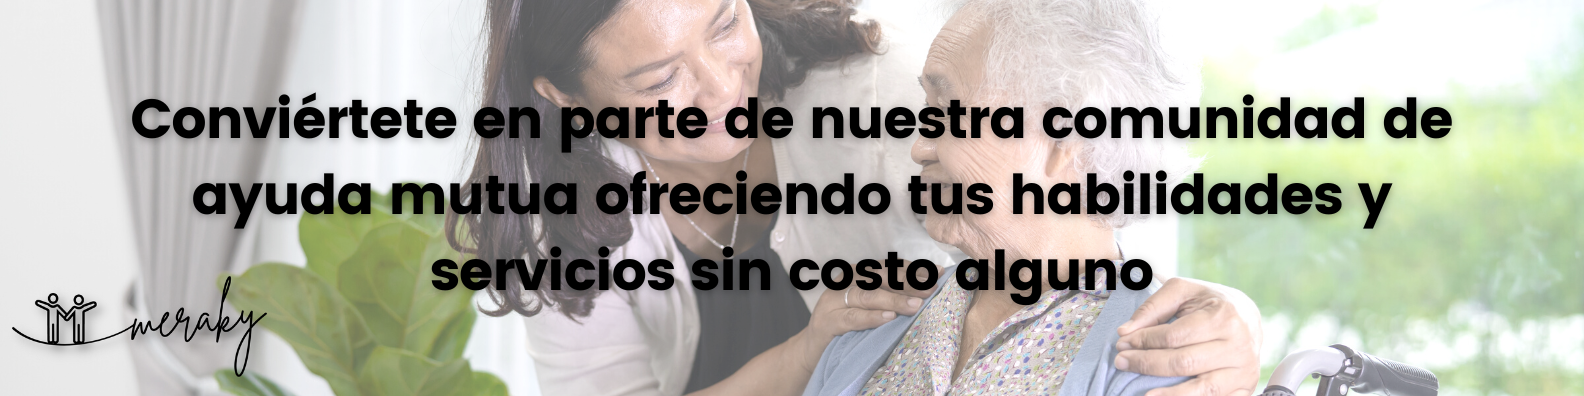
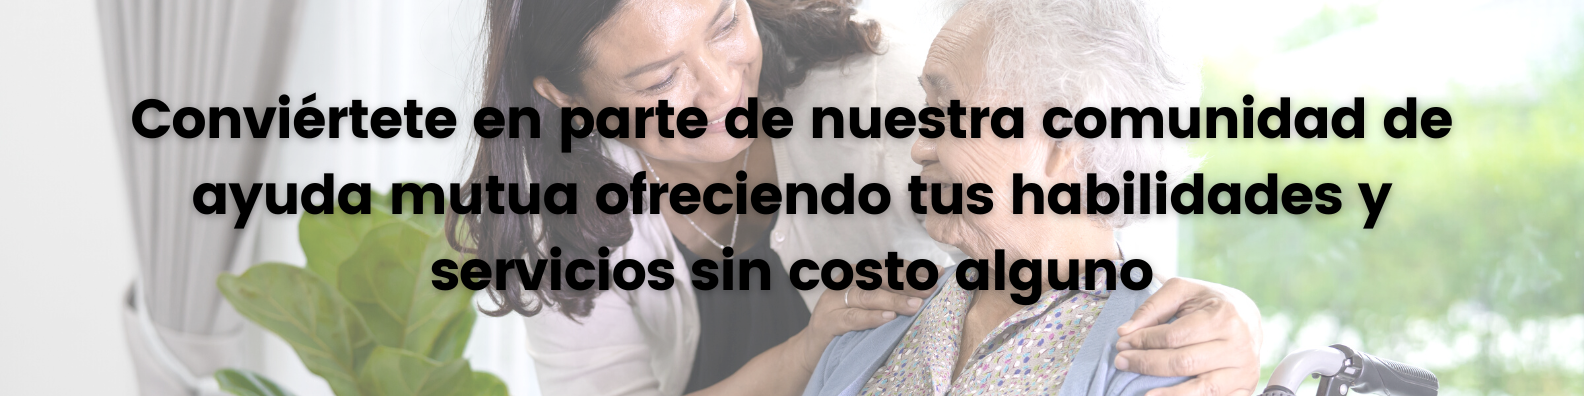
Modify Home

Changed region(s): [[0.0, 0.7273, 0.1856, 0.9091], [0.1237, 0.697, 0.1547, 0.7576]]

diff --git a/src/router/index.jsx b/src/router/index.jsx
@@ -8,6 +8,7 @@ import Post from '../pages/Post';
 import NotFound from "../pages/NotFound";
 import EditService from "../pages/EditService";
 import Navbar from "../components/Navbar";
+import Cards from "../components/Card";
 
 
 export const router = createBrowserRouter([
@@ -21,7 +22,7 @@ export const router = createBrowserRouter([
                 children: [
                     {
                         index: true,
-                        element: <><Navbar /> <Home /></>, 
+                        element:<Home />, 
                     },
                     {
                         path: '/form',

diff --git a/src/pages/Home.jsx b/src/pages/Home.jsx
@@ -1,14 +1,21 @@
 import "./Home.css"
 import Slide from '../components/Slide';
-
+import Card from '../components/Card';
 const Home = () => {
     return (
 
-
+<>
                 <Slide/>
+                <h1 className="title">Anuncios destacados</h1>
+            <div className="anuncios">
+                <Card/> <Card/> <Card/>
+            </div>
+            <div className="anuncios">
+                <Card/> <Card/> <Card/>
+            </div>
 
 
-
+                </>
 
 
     )

diff --git a/src/layout/LayoutPublic.jsx b/src/layout/LayoutPublic.jsx
@@ -16,7 +16,7 @@ const LayoutPublic = () => {
     return (
         <>
         <Navbar/>
-        <Slide />
+        {/* <Slide /> */}
         <main className="container">
            {navigation.state === "loading" && (
                <div className="alert alert-info my-S">Loading...</div>

diff --git a/src/components/Navbar.css b/src/components/Navbar.css
@@ -4,14 +4,14 @@
     justify-content: space-around;
     
     background-color: white;
-    height: 20vh;
+    height: 18vh;
     width: 100%;
        
   }
 
   .logo{
-    width: 18vw;
-    height: 18vh;
+    width: 20vw;
+    height: 20vh;
    
       
   }

diff --git a/src/components/Navbar.jsx b/src/components/Navbar.jsx
@@ -1,6 +1,6 @@
 import { NavLink } from 'react-router-dom'
 import "./Navbar.css"
-import logo from '../assets/logomeraki.png';
+import logo from '../assets/logo.svg';
 
 
 const Navbar = () => {
